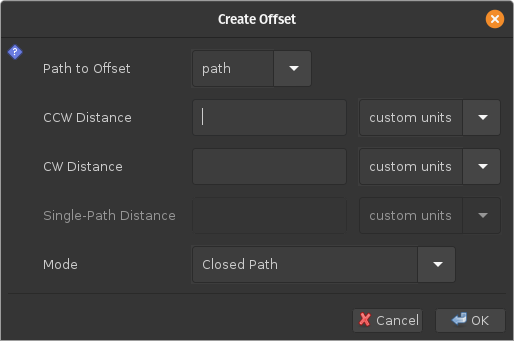
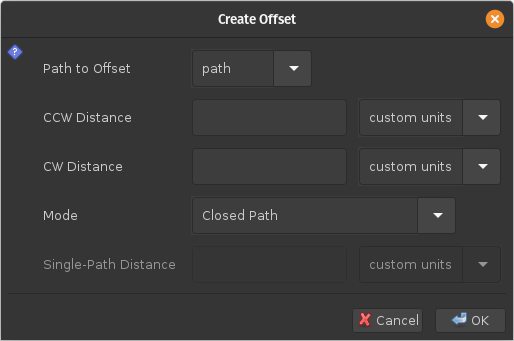
Fix an offset-path bug (not working for one-sided paths)

diff --git a/docs/manual/manual.dm.html b/docs/manual/manual.dm.html
@@ -984,16 +984,16 @@ displayed in textual form. This menu contains the following items:
 	the other in the clockwise direction. Where the reference path is
 	a smooth path, these additional paths are offset from the reference
 	path by specified distances.
-      <LI><B><CODE>CCW Distance</CODE></B>. The distance from the reference
-	path to the associated path in the counterclockwise direction.
-      <LI><B><CODE>CW Distance</CODE></B>. The distance from the reference
-	path to the associated path in the clockwise direction.
-      <LI><B><CODE>Single-Path Distance</CODE></B>. For some modes (see
-	below), only a single path will be created. This provides the distance
-	of that path from the reference path.  When single paths are created,
-	the path will be offset from the associated paths, but may deviate
-	from the reference path (typically at points were the reference path
-	is not smooth).
+      <LI><B><CODE>CCW Distance</CODE></B>. The distance from the
+	reference path to the associated path in the counterclockwise
+	direction.  This distance is the distance in graph coordinate
+	space, and an adjacent control allows one to pick specify the
+	units.
+      <LI><B><CODE>CW Distance</CODE></B>. The distance from the
+	reference path to the associated path in the clockwise
+	direction.  This distance is the distance in graph coordinate
+	space, and an adjacent control allows one to pick specify the
+	units.
       <LI><B><CODE>Mode</CODE></B>. This specifies the mode used to create
 	a path. The modes are
 	<UL>
@@ -1027,6 +1027,19 @@ displayed in textual form. This menu contains the following items:
 	    path will be on the clockwise side of the reference path
 	    and will run in the opposite direction.
 	</UL>
+      <LI><B><CODE>Single-Path Distance</CODE></B>. For some modes
+	(see below), only a single path will be created. This provides
+	the distance of that path from the reference path.  When
+	single paths are created, the path will be offset from the
+	associated paths, but may deviate from this at some points
+	(typically at points were the reference path is not smooth).
+	The CCW and CW distances control the shape of this path.  The
+	value of the single-path distance should be no greater than
+	the CCW or CW distance, depeding on whether the generated path
+	is on the CCW or CW side of the original path respectively.
+	The single-path distance is the distance in graph coordinate
+	space, and an adjacent control allows one to pick specify the
+	units.
     </UL>
     The <B><CODE>Offset Path</CODE></B> uses various heuristics to
     guess appropriate values for various fields. These values can be

diff --git a/manual/manual.html b/manual/manual.html
@@ -984,16 +984,16 @@ displayed in textual form. This menu contains the following items:
 	the other in the clockwise direction. Where the reference path is
 	a smooth path, these additional paths are offset from the reference
 	path by specified distances.
-      <LI><B><CODE>CCW Distance</CODE></B>. The distance from the reference
-	path to the associated path in the counterclockwise direction.
-      <LI><B><CODE>CW Distance</CODE></B>. The distance from the reference
-	path to the associated path in the clockwise direction.
-      <LI><B><CODE>Single-Path Distance</CODE></B>. For some modes (see
-	below), only a single path will be created. This provides the distance
-	of that path from the reference path.  When single paths are created,
-	the path will be offset from the associated paths, but may deviate
-	from the reference path (typically at points were the reference path
-	is not smooth).
+      <LI><B><CODE>CCW Distance</CODE></B>. The distance from the
+	reference path to the associated path in the counterclockwise
+	direction.  This distance is the distance in graph coordinate
+	space, and an adjacent control allows one to pick specify the
+	units.
+      <LI><B><CODE>CW Distance</CODE></B>. The distance from the
+	reference path to the associated path in the clockwise
+	direction.  This distance is the distance in graph coordinate
+	space, and an adjacent control allows one to pick specify the
+	units.
       <LI><B><CODE>Mode</CODE></B>. This specifies the mode used to create
 	a path. The modes are
 	<UL>
@@ -1027,6 +1027,19 @@ displayed in textual form. This menu contains the following items:
 	    path will be on the clockwise side of the reference path
 	    and will run in the opposite direction.
 	</UL>
+      <LI><B><CODE>Single-Path Distance</CODE></B>. For some modes
+	(see below), only a single path will be created. This provides
+	the distance of that path from the reference path.  When
+	single paths are created, the path will be offset from the
+	associated paths, but may deviate from this at some points
+	(typically at points were the reference path is not smooth).
+	The CCW and CW distances control the shape of this path.  The
+	value of the single-path distance should be no greater than
+	the CCW or CW distance, depeding on whether the generated path
+	is on the CCW or CW side of the original path respectively.
+	The single-path distance is the distance in graph coordinate
+	space, and an adjacent control allows one to pick specify the
+	units.
     </UL>
     The <B><CODE>Offset Path</CODE></B> uses various heuristics to
     guess appropriate values for various fields. These values can be

diff --git a/src/org.bzdev.epts/org/bzdev/epts/EPTSWindow.java b/src/org.bzdev.epts/org/bzdev/epts/EPTSWindow.java
@@ -1030,6 +1030,13 @@ class OffsetPane extends JPanel {
 	add(lunits2);
 
 	c.gridwidth = 1;
+	gridbag.setConstraints(ml, c);
+	add(ml);
+	c.gridwidth = GridBagConstraints.REMAINDER;
+	gridbag.setConstraints(modesCB, c);
+	add(modesCB);
+
+	c.gridwidth = 1;
 	gridbag.setConstraints(d3l, c);
 	add(d3l);
 	gridbag.setConstraints(d3tf, c);
@@ -1037,13 +1044,6 @@ class OffsetPane extends JPanel {
 	c.gridwidth = GridBagConstraints.REMAINDER;
 	gridbag.setConstraints(lunits3, c);
 	add(lunits3);
-
-	c.gridwidth = 1;
-	gridbag.setConstraints(ml, c);
-	add(ml);
-	c.gridwidth = GridBagConstraints.REMAINDER;
-	gridbag.setConstraints(modesCB, c);
-	add(modesCB);
 
 
 	if (dist1 != 0.0) d1tf.setText("" + dist1);
@@ -5601,35 +5601,6 @@ public class EPTSWindow {
 	offsetPathMenuItem = menuItem;
 
 	menuItem.addActionListener(new ActionListener() {
-		/*
-		Runnable repeat = null;
-		int limit = 0;
-		JComponent target = null;
-		private void setup(OffsetPane offsetPane) {
-		    target = offsetPane.getTargetTF();
-		    limit = 0;
-		    SwingUtilities.invokeLater(() -> {
-			    Toolkit.getDefaultToolkit().sync();
-			});
-		    if (repeat == null) {
-			repeat = () -> {
-			    if (target.requestFocusInWindow()) {
-				System.out.println("request focus succeeded");
-			    } else {
-				limit++;
-				// if something goes wrong, we don't want
-				// this to run forever.
-				if (limit > 256) return;
-				System.out.println("try again");
-				SwingUtilities.invokeLater(() -> {
-					Toolkit.getDefaultToolkit().sync();
-					SwingUtilities.invokeLater(repeat);
-				    });
-			    }
-			};
-		    }
-		}
-		*/
 		public void actionPerformed(ActionEvent e) {
 		    terminatePartialPath();
 		    // System.out.println("creating an offset ...");
@@ -5671,8 +5642,8 @@ public class EPTSWindow {
 			    do {
 				opathName = JOptionPane
 				    .showInputDialog(frame,
-						     "opathName",
-						     "opathTitle",
+						     localeString("opathName"),
+						     localeString("opathTitle"),
 						     JOptionPane.PLAIN_MESSAGE);
 				if (opathName == null) return;
 				opathName = opathName.trim();
@@ -5702,7 +5673,11 @@ public class EPTSWindow {
 				}
 			    } else {
 				boolean ccw = offsetPane.requestsCCWPath();
-				// System.out.println("ccw = " + ccw);
+				if (ccw && dist1 < dist3) {
+				    dist1 = dist3;
+				} else if (dist2 < dist3) {
+				    dist2 = dist3;
+				}
 				opath = Paths2D.offsetBy(basePath,
 							 dist1, dist2, dist3,
 							 ccw, mdelta);
@@ -5759,19 +5734,60 @@ public class EPTSWindow {
 				    // System.out.println(opathName);
 				} while (pvnames.contains(opathName2));
 			    }
-			    if (opath == null) return;
-			    offsetPane.saveIndices();
-			    offsetPane.saveDistances();
-			    offsetPane.saveBaseMap();
-			    OffsetPane.addOurPathName(opathName, bpn);
-			    ptmodel.addRow(new PointTMR(opathName,
-							EPTS.Mode.PATH_START,
-							0.0, 0.0, 0.0, 0.0));
-			    double xstart = 0.0;
-			    double ystart = 0.0;
-			    double nx, ny, nxp, nyp;
+			}
+			if (opath == null) return;
+			offsetPane.saveIndices();
+			offsetPane.saveDistances();
+			offsetPane.saveBaseMap();
+			OffsetPane.addOurPathName(opathName, bpn);
+			ptmodel.addRow(new PointTMR(opathName,
+						    EPTS.Mode.PATH_START,
+						    0.0, 0.0, 0.0, 0.0));
+			double xstart = 0.0;
+			double ystart = 0.0;
+			double nx, ny, nxp, nyp;
+			for (SplinePathBuilder.CPoint cp:
+				 Path2DInfo.getCPoints(opath)) {
+			    SplinePathBuilder.CPointType cptype
+				= (SplinePathBuilder.CPointType) cp.type;
+			    switch(cptype) {
+			    case MOVE_TO:
+				xstart = cp.x;
+				ystart = cp.y;
+			    case SEG_END:
+			    case CONTROL:
+				nx = cp.x;
+				ny = cp.y;
+				nxp = (nx - xrefpoint) / scaleFactor;
+				nyp = (ny - yrefpoint) / scaleFactor;
+				nyp = height - nyp;
+				ptmodel.addRow("", cp.type, nx, ny,
+					       nxp, nyp);
+				break;
+			    case CLOSE:
+				nxp = (xstart - xrefpoint) / scaleFactor;
+				nyp = (ystart - yrefpoint) / scaleFactor;
+				nyp = height - nyp;
+				ptmodel.addRow("", cp.type, xstart, ystart,
+					       nxp, nyp);
+				break;
+			    default:
+				break;
+			    }
+			}
+			ptmodel.addRow(new PointTMR("",
+						    EPTS.Mode.PATH_END,
+						    0.0, 0.0, 0.0, 0.0));
+			if (opath2 != null) {
+			    OffsetPane.addOurPathName(opathName2, bpn);
+			    ptmodel.addRow(new PointTMR
+					   (opathName2,
+					    EPTS.Mode.PATH_START,
+					    0.0, 0.0, 0.0, 0.0));
+			    xstart = 0.0;
+			    ystart = 0.0;
 			    for (SplinePathBuilder.CPoint cp:
-				     Path2DInfo.getCPoints(opath)) {
+				     Path2DInfo.getCPoints(opath2)) {
 				SplinePathBuilder.CPointType cptype
 				    = (SplinePathBuilder.CPointType) cp.type;
 				switch(cptype) {
@@ -5792,7 +5808,8 @@ public class EPTSWindow {
 				    nxp = (xstart - xrefpoint) / scaleFactor;
 				    nyp = (ystart - yrefpoint) / scaleFactor;
 				    nyp = height - nyp;
-				    ptmodel.addRow("", cp.type, xstart, ystart,
+				    ptmodel.addRow("", cp.type,
+						   xstart, ystart,
 						   nxp, nyp);
 				    break;
 				default:
@@ -5801,53 +5818,8 @@ public class EPTSWindow {
 			    }
 			    ptmodel.addRow(new PointTMR("",
 							EPTS.Mode.PATH_END,
-							0.0, 0.0, 0.0, 0.0));
-			    if (opath2 != null) {
-				OffsetPane.addOurPathName(opathName2, bpn);
-				ptmodel.addRow(new PointTMR
-					       (opathName2,
-						EPTS.Mode.PATH_START,
-						0.0, 0.0, 0.0, 0.0));
-				xstart = 0.0;
-				ystart = 0.0;
-				for (SplinePathBuilder.CPoint cp:
-					 Path2DInfo.getCPoints(opath2)) {
-				    SplinePathBuilder.CPointType cptype
-					= (SplinePathBuilder.CPointType)
-					cp.type;
-				    switch(cptype) {
-				    case MOVE_TO:
-					xstart = cp.x;
-					ystart = cp.y;
-				    case SEG_END:
-				    case CONTROL:
-					nx = cp.x;
-					ny = cp.y;
-					nxp = (nx - xrefpoint) / scaleFactor;
-					nyp = (ny - yrefpoint) / scaleFactor;
-					nyp = height - nyp;
-					ptmodel.addRow("", cp.type, nx, ny,
-						       nxp, nyp);
-					break;
-				    case CLOSE:
-					nxp = (xstart - xrefpoint)
-					    / scaleFactor;
-					nyp = (ystart - yrefpoint)
-					    / scaleFactor;
-					nyp = height - nyp;
-					ptmodel.addRow("", cp.type,
-						       xstart, ystart,
-						       nxp, nyp);
-					break;
-				    default:
-					break;
-				    }
-				}
-				ptmodel.addRow(new PointTMR("",
-							    EPTS.Mode.PATH_END,
-							    0.0, 0.0,
-							    0.0, 0.0));
-			    }
+							0.0, 0.0,
+							0.0, 0.0));
 			}
 		    }
 		}
